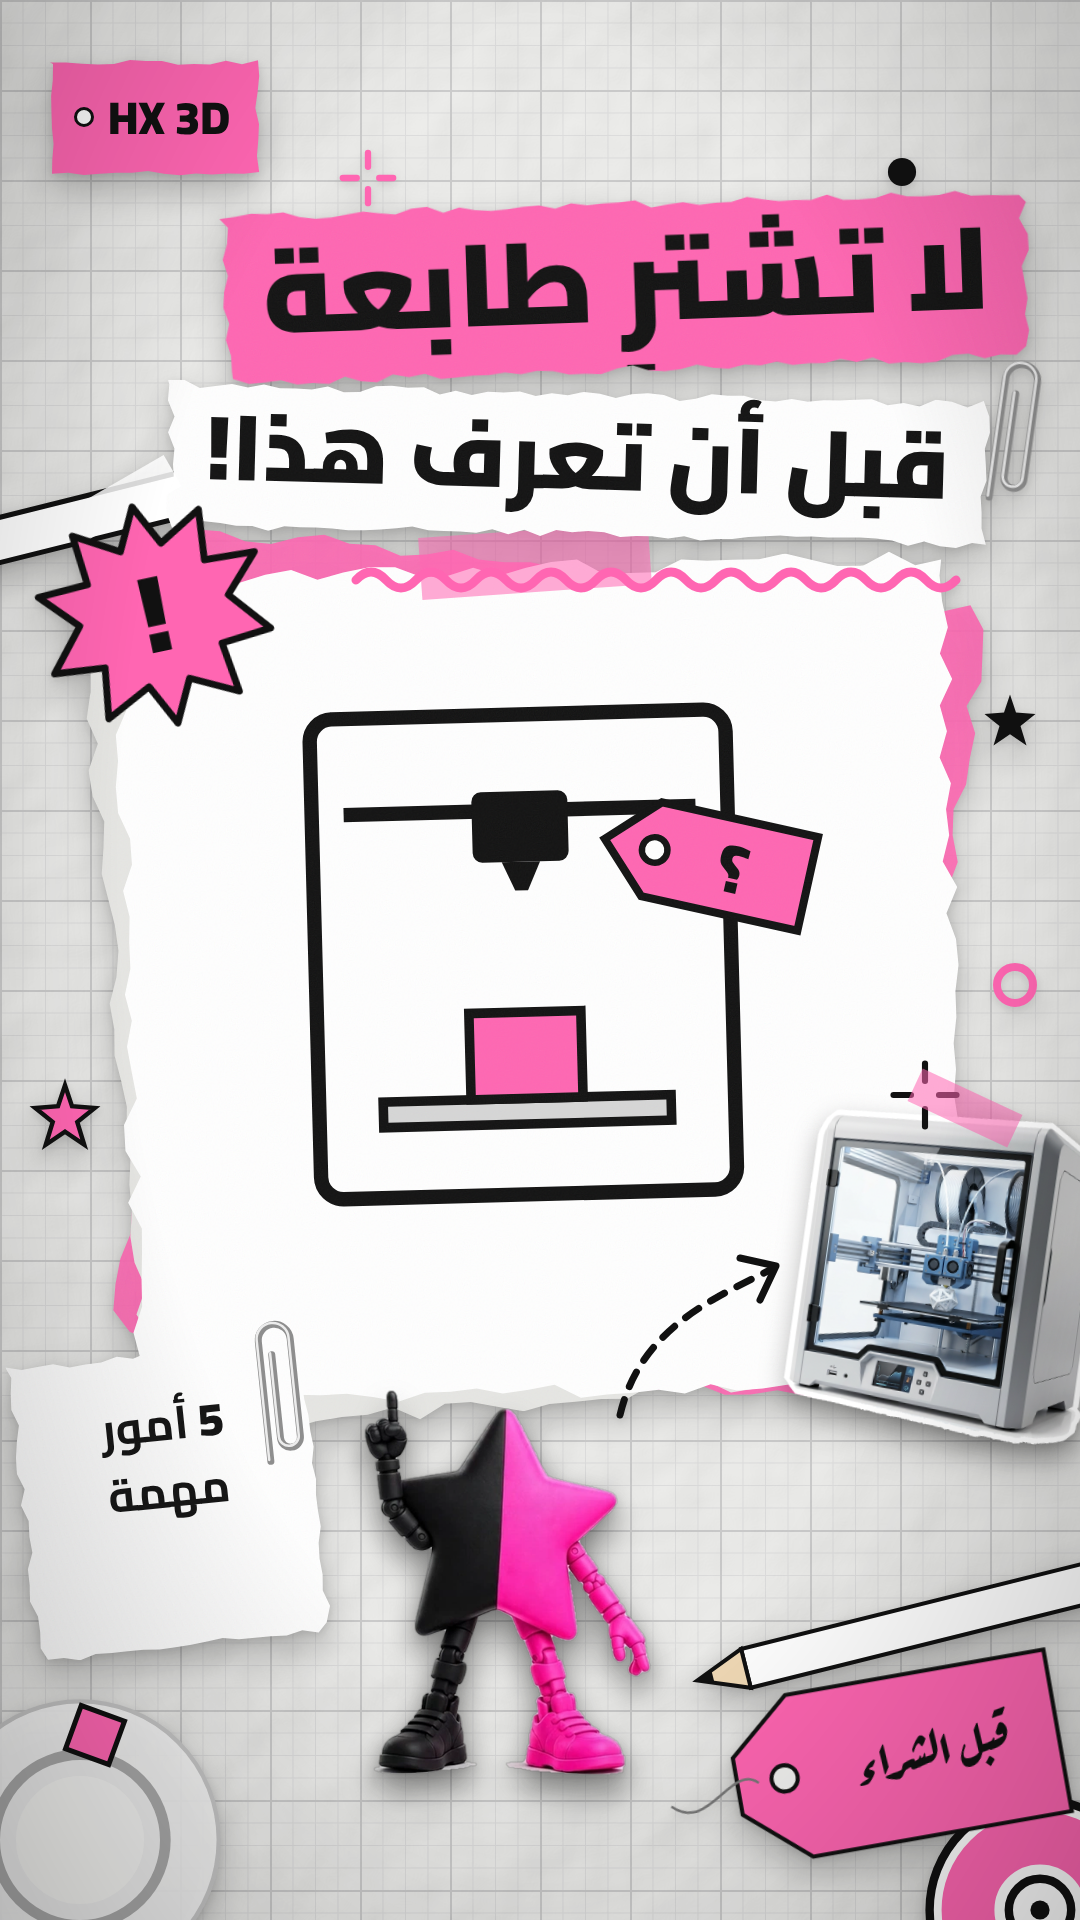
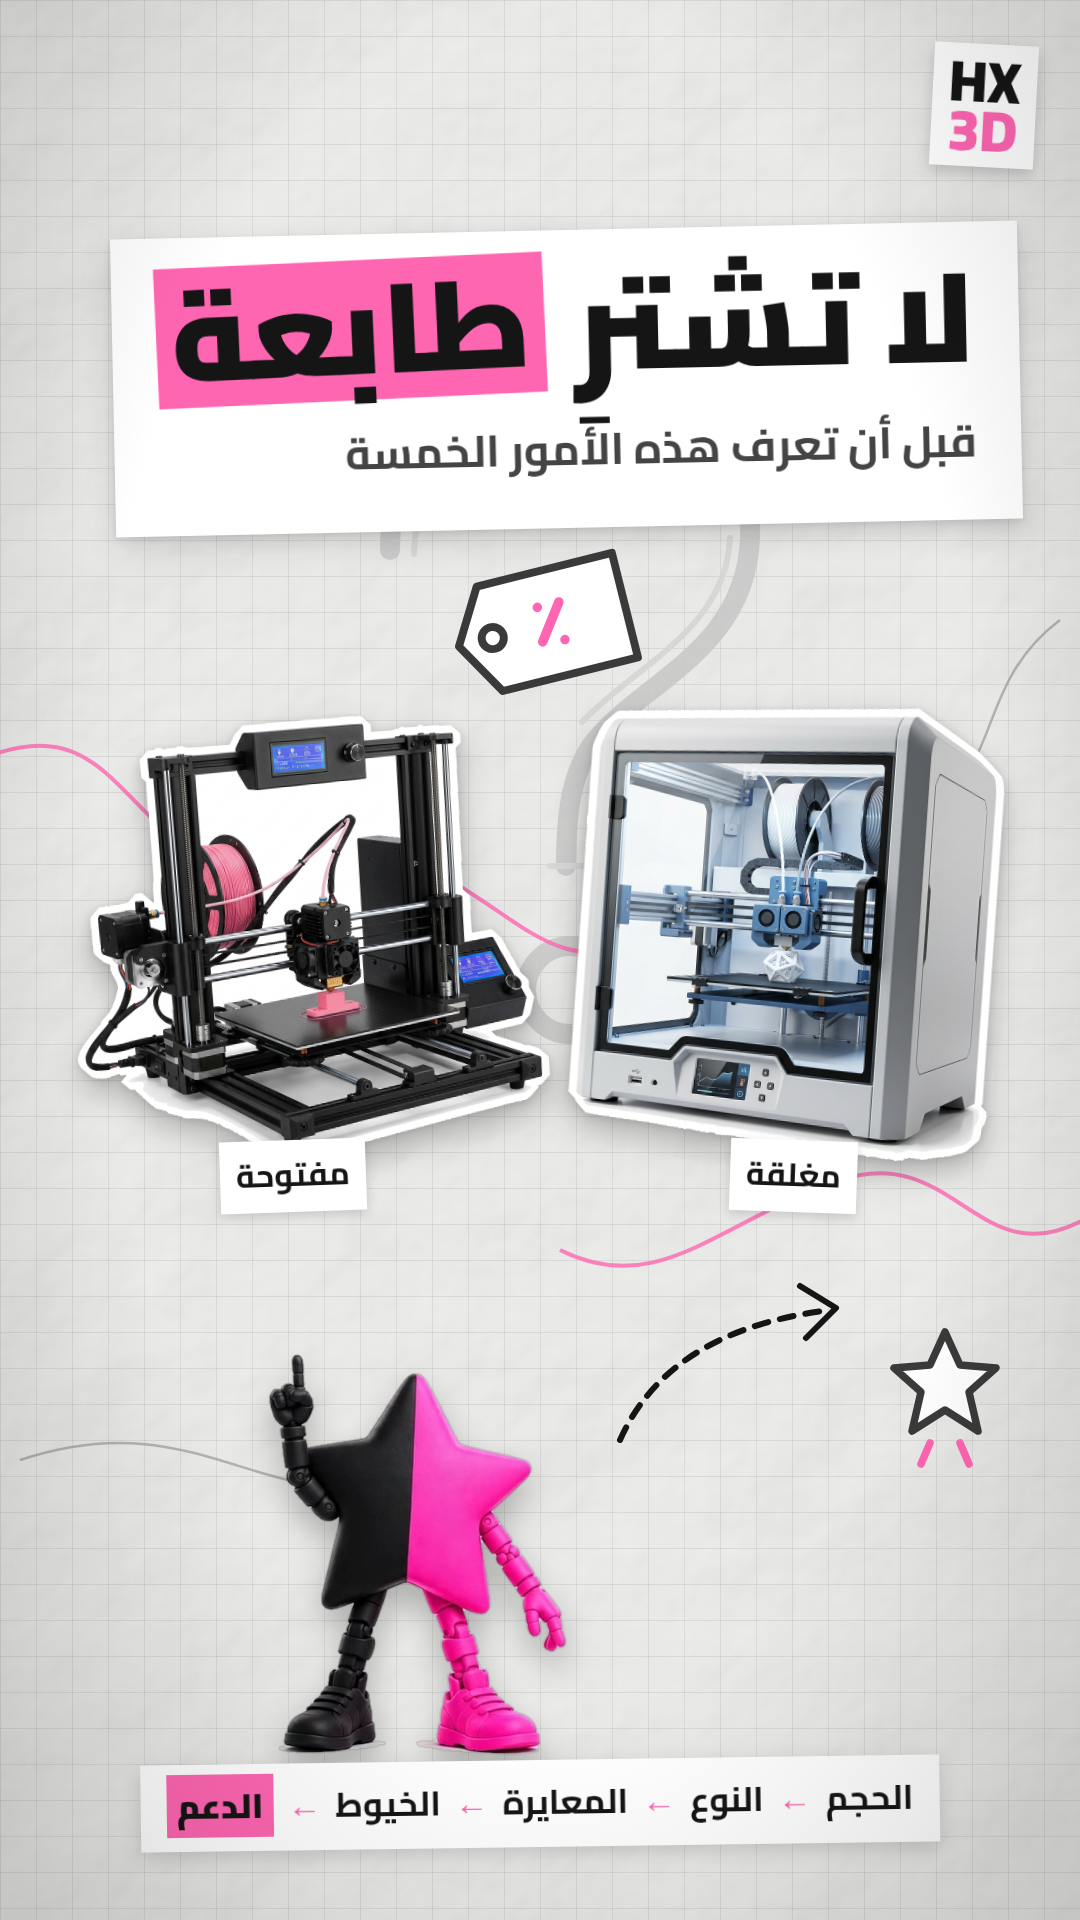
Pro thumbnails in the reference reels' editorial style
Claude-Session: https://claude.ai/code/session_01YbqRHE6QUiHDSeLncTBNxY

diff --git a/video-design/source/thumbnail-template-pro.html b/video-design/source/thumbnail-template-pro.html
@@ -1,0 +1,73 @@
+<!doctype html>
+<html lang="ar"><head><meta charset="utf-8">
+<style>
+@font-face{font-family:Cairo;font-weight:900;src:url(node_modules/@fontsource/cairo/files/cairo-arabic-900-normal.woff2)}
+@font-face{font-family:Cairo;font-weight:700;src:url(node_modules/@fontsource/cairo/files/cairo-arabic-700-normal.woff2)}
+@font-face{font-family:CairoL;font-weight:900;src:url(node_modules/@fontsource/cairo/files/cairo-latin-900-normal.woff2)}
+@font-face{font-family:CairoL;font-weight:700;src:url(node_modules/@fontsource/cairo/files/cairo-latin-700-normal.woff2)}
+*{box-sizing:border-box;margin:0}
+html,body{width:1080px;height:1920px;overflow:hidden;background:#efefed;font-family:Cairo,CairoL,sans-serif;color:#151515}
+#bg{position:absolute;inset:0;background:#f2f2f0;background-image:linear-gradient(rgba(0,0,0,.07) 1.5px,transparent 1.5px),linear-gradient(90deg,rgba(0,0,0,.07) 1.5px,transparent 1.5px);background-size:36px 36px}
+#cr{position:absolute;inset:0;mix-blend-mode:multiply;opacity:.55}
+#vig{position:absolute;inset:0;background:radial-gradient(ellipse at 50% 45%,rgba(0,0,0,0) 58%,rgba(0,0,0,.16));z-index:90}
+.o{position:absolute}
+.sk{fill:none;stroke:#3a3a3a;stroke-width:5;stroke-linecap:round;stroke-linejoin:round}
+.skl{fill:none;stroke:#9a9a9a;stroke-width:3;stroke-linecap:round}
+.pk{stroke:#FF66B2}
+.strip{background:#fff;padding:26px 44px 38px;direction:rtl;filter:drop-shadow(0 10px 14px rgba(0,0,0,.14)) drop-shadow(0 2px 3px rgba(0,0,0,.1))}
+.strip>div{background:#fff}
+.t1{font-weight:900;line-height:1.08;white-space:nowrap}
+.t1 em{font-style:normal;color:#FF66B2}
+.hl{background:#FF66B2;color:#151515;padding:0 14px 4px;display:inline-block;transform:rotate(-1.5deg)}
+.t2{font-weight:700;font-size:44px;color:#444;margin-top:12px;white-space:nowrap}
+.stk{filter:drop-shadow(0 14px 16px rgba(0,0,0,.22)) drop-shadow(0 2px 4px rgba(0,0,0,.15))}
+.lbl{background:#fff;padding:4px 16px 8px;font-weight:700;font-size:32px;direction:rtl;filter:drop-shadow(0 4px 6px rgba(0,0,0,.15))}
+.ltr{direction:ltr;unicode-bidi:isolate;font-family:CairoL,Cairo}
+.chain{direction:rtl;display:flex;gap:14px;align-items:center;font-weight:700;font-size:34px;background:#fff;padding:10px 26px 14px;filter:drop-shadow(0 6px 10px rgba(0,0,0,.14))}
+.chain .a{color:#FF66B2;font-weight:900}
+.chain b{background:#FF66B2;padding:0 10px}
+#logo{right:44px;top:44px;font-family:CairoL;font-weight:900;font-size:58px;line-height:.85;text-align:center;background:#fff;padding:12px 16px;transform:rotate(3deg);filter:drop-shadow(0 6px 8px rgba(0,0,0,.18))}
+#logo span{display:block;color:#FF66B2}
+</style></head><body>
+<div id="bg"></div>
+<svg id="cr" width="1080" height="1920"><filter id="f"><feTurbulence type="fractalNoise" baseFrequency=".0042" numOctaves="5" seed="23"/><feDiffuseLighting lighting-color="#fff" surfaceScale="7"><feDistantLight azimuth="235" elevation="58"/></feDiffuseLighting></filter><rect width="1080" height="1920" filter="url(#f)"/></svg>
+<div id="stage"></div>
+<div id="vig"></div>
+<script>
+const V={
+1:{t1:'حل <span class="ltr">5</span> <span class="hl">مشاكل</span>',t2:'في طباعتك… قبل ما تخرب القطعة',fs:128,
+ ph:[['s_spaghetti.png',230,640,620,-3]],tags:[['خيوط زائدة',720,700],['التصاق ضعيف',120,1090]],
+ icons:'therm', chain:['السطح','الخيط','الحرارة','السرعة','الاتجاه'], m:'m1.png'},
+2:{t1:'<span class="ltr">PLA</span> أم <span class="hl ltr">PETG</span>؟',t2:'الفرق اللي يغيّر نتيجة طباعتك',fs:122,
+ ph:[['s_spool_black.png',90,690,430,-5],['s_spool_pink.png',560,670,450,5]],tags:[['PLA',230,1130],['PETG',720,1130]],
+ icons:'vs', chain:['القوة','الحرارة','سهولة الطباعة','الاستخدام'], m:'m2.png'},
+3:{t1:'لا تشترِ <span class="hl">طابعة</span>',t2:'قبل أن تعرف هذه الأمور الخمسة',fs:126,
+ ph:[['s_printer_open.png',70,720,470,-4],['s_printer_closed.png',580,700,420,4]],tags:[['مفتوحة',220,1140],['مغلقة',730,1140]],
+ icons:'tag', chain:['الحجم','النوع','المعايرة','الخيوط','الدعم'], m:'m3.png'}};
+const c=V[+(new URLSearchParams(location.search).get('v')||1)];
+const Q=`<svg class="o" style="left:250px;top:330px;opacity:.9" width="600" height="760" viewBox="0 0 300 380">
+ <path class="sk" style="stroke:#c9c9c9;stroke-width:10" d="M70 110 C70 40 130 14 165 16 C220 18 252 58 250 104 C248 160 196 176 172 206 C160 222 158 244 158 268"/>
+ <path class="skl" style="stroke:#d6d6d6" d="M82 112 C84 52 134 28 166 30 M240 104 C238 150 192 168 166 196 M150 268 L170 268"/>
+ <circle cx="160" cy="330" r="22" fill="none" stroke="#c9c9c9" stroke-width="10"/></svg>`;
+const ICONS={
+therm:`<svg class="o" style="left:880px;top:560px" width="130" height="330" viewBox="0 0 60 150"><rect class="sk" x="20" y="8" width="20" height="104" rx="10"/><circle class="sk" cx="30" cy="124" r="18" style="fill:#FF66B2"/><rect x="25" y="40" width="10" height="80" fill="#FF66B2"/><path class="skl" d="M44 30h8M44 50h8M44 70h8M44 90h8"/></svg>
+ <svg class="o" style="left:60px;top:560px" width="150" height="150" viewBox="0 0 100 100"><g class="sk"><circle cx="50" cy="50" r="18"/><path d="M50 14v12M50 74v12M14 50h12M74 50h12M25 25l9 9M66 66l9 9M75 25l-9 9M34 66l-9 9"/></g></svg>`,
+vs:`<svg class="o" style="left:450px;top:780px" width="180" height="180" viewBox="0 0 100 100"><circle cx="50" cy="50" r="40" fill="#fff" stroke="#151515" stroke-width="5"/><text x="50" y="64" text-anchor="middle" font-family="CairoL" font-weight="900" font-size="38" fill="#FF66B2">VS</text></svg>`,
+tag:`<svg class="o" style="left:450px;top:560px;transform:rotate(-14deg)" width="190" height="130" viewBox="0 0 120 80"><path class="sk" d="M24 6 H112 V74 H24 L4 40 Z" style="fill:#fff"/><circle class="sk" cx="26" cy="40" r="7"/><path class="sk pk" d="M56 50 l16 -22 M58 28h0M70 52h0" style="stroke-width:6"/></svg>
+ <svg class="o" style="left:880px;top:1320px" width="130" height="150" viewBox="0 0 80 100"><path class="sk" d="M40 8 L50 30 L74 32 L56 48 L62 74 L40 60 L18 74 L24 48 L6 32 L30 30 Z" style="fill:#fff"/><path class="sk pk" d="M30 82 l-6 14 M50 82 l6 14"/></svg>`};
+const th=(x,y,d,cls)=>`<svg class="o" style="left:${x}px;top:${y}px" width="420" height="300" viewBox="0 0 420 300"><path class="${cls}" d="${d}" stroke-dasharray="14 12"/></svg>`;
+document.getElementById('stage').innerHTML=`
+ ${Q}
+ <svg class="o" style="left:0;top:0" width="1080" height="1920" viewBox="0 0 1080 1920"><g fill="none" stroke="#FF66B2" stroke-width="4" opacity=".8">
+  <path d="M-20 760 C140 690 120 900 300 860 S520 1000 640 940"/><path d="M1100 1210 C980 1290 960 1140 840 1180 S660 1300 560 1250"/></g>
+  <g fill="none" stroke="#9a9a9a" stroke-width="2.5" opacity=".7"><path d="M20 1460 C200 1400 260 1520 420 1480"/><path d="M1060 620 C980 680 1000 760 940 800"/></g></svg>
+ ${c.ph.map(([s,x,y,w,r])=>`<img class="o stk" src="${s}" style="left:${x}px;top:${y}px;width:${w}px;transform:rotate(${r}deg)">`).join('')}
+ ${ICONS[c.icons]}
+ ${c.tags.map(([t,x,y])=>`<div class="o lbl ${/^[A-Z]/.test(t)?'ltr':''}" style="left:${x}px;top:${y}px;transform:rotate(${x>500?2:-2}deg)">${t}</div>`).join('')}
+ <svg class="o" style="left:600px;top:1260px" width="260" height="200" viewBox="0 0 260 200"><path d="M20 180 C60 90 150 60 230 50" fill="none" stroke="#151515" stroke-width="6" stroke-linecap="round" stroke-dasharray="14 12"/><path d="M200 26 L236 48 L206 78" fill="none" stroke="#151515" stroke-width="6" stroke-linecap="round" stroke-linejoin="round"/></svg>
+ <div class="o strip" style="right:60px;top:230px;transform:rotate(-1.2deg)"><div class="t1" style="font-size:${c.fs}px">${c.t1}</div><div class="t2">${c.t2}</div></div>
+ <img class="o" src="${c.m}" style="left:150px;top:1250px;width:520px;filter:drop-shadow(0 16px 16px rgba(0,0,0,.25))">
+ <div class="o chain" style="left:50%;top:1760px;transform:translateX(-50%) rotate(-.8deg);white-space:nowrap">${c.chain.map((s,i)=>(i?'<span class="a">←</span>':'')+(i==c.chain.length-1?`<b>${s}</b>`:`<span>${s}</span>`)).join('')}</div>
+ <div class="o" id="logo">HX<span>3D</span></div>`;
+document.fonts.ready.then(()=>{document.body.dataset.ready=1});
+</script></body></html>
